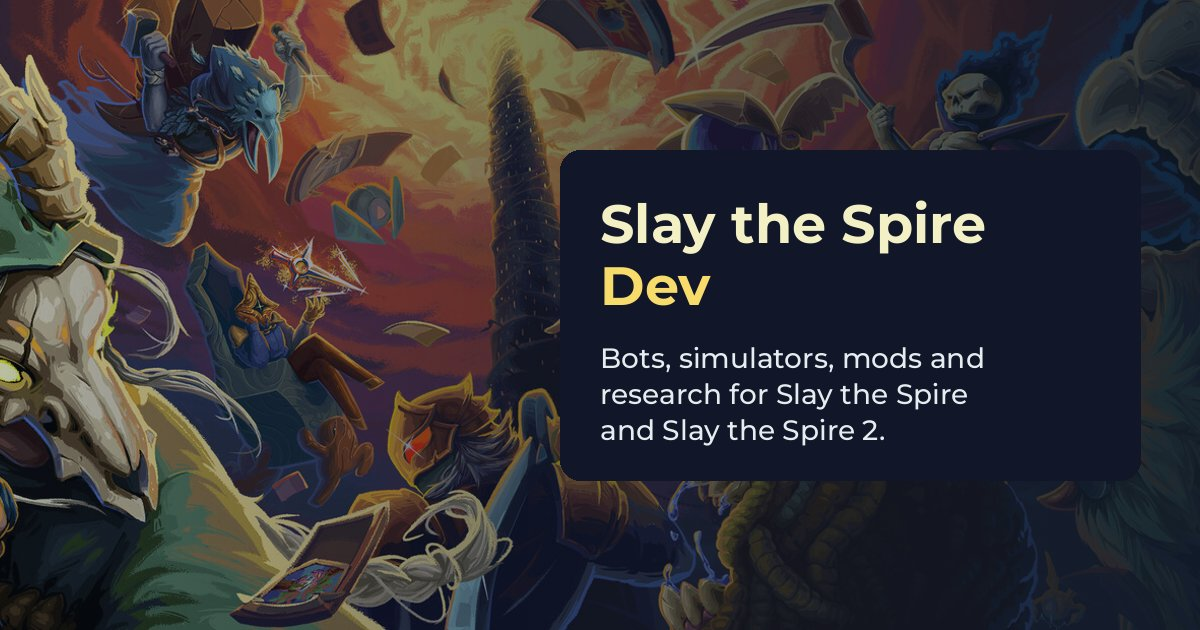
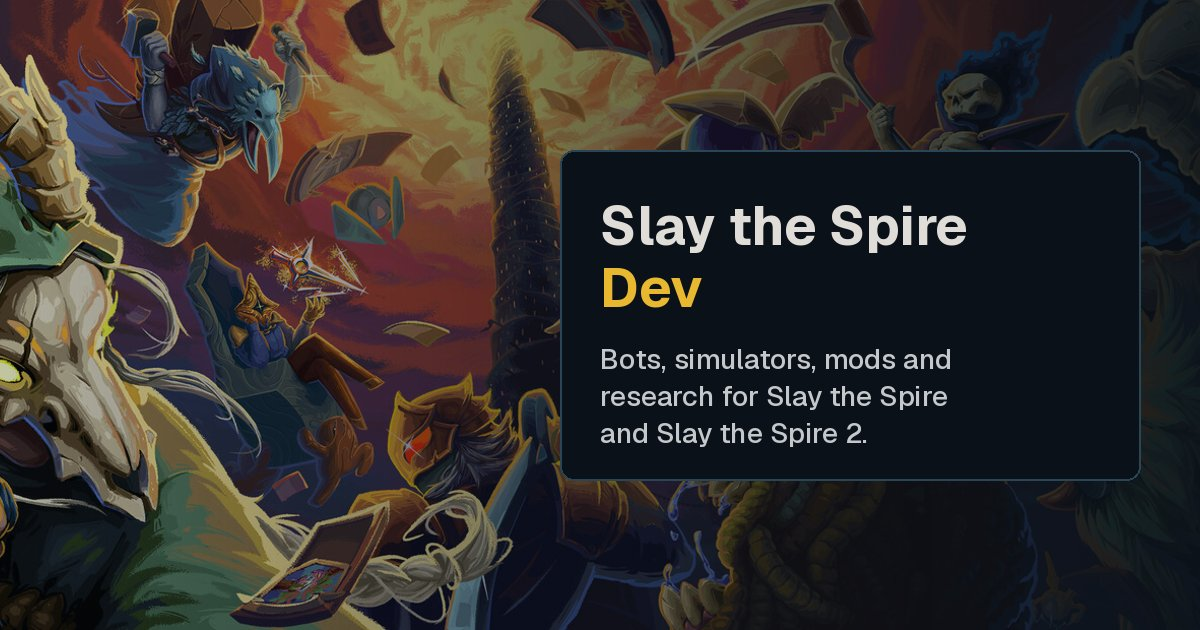
Switch to the Spire Codex dark theme (#7)
Codex palette and Geist font, flat bordered cards, left-aligned section
headings, no torn-paper edges. Color tokens renamed to describe their role.

diff --git a/src/styles/global.css b/src/styles/global.css
@@ -1,17 +1,20 @@
 :root {
-  --navy: #183749;
-  --navy-deep: #112836;
-  --navy-card: #1f4257;
-  --cream: #f2f0c4;
-  --cream-ink: #183749;
-  --slate: #6d95ac;
-  --mist: #8eadbe;
-  --gold: #f7db6b;
-  --sts1: #e8963f;
-  --sts2: #4fd8c4;
-  --white: #fff;
-  --radius: 10px;
-  --shadow: 0 10px 30px rgba(0, 0, 0, 0.35);
+  --bg: #0a1118;
+  --bg-raised: #0f1920;
+  --card: #132028;
+  --card-hover: #1a2b35;
+  --border: #1e3040;
+  --border-strong: #2a4555;
+  --text: #e0ddd8;
+  --text-strong: #f4f2ee;
+  --text-soft: #c4c8cb;
+  --muted: #8a9298;
+  --gold: #e8b830;
+  --gold-light: #fbd91e;
+  --sts1: #d53b27;
+  --sts2: #45cfd8;
+  --radius: 8px;
+  --shadow: none;
   --max: 1180px;
   color-scheme: dark;
 }
@@ -28,9 +31,9 @@ html {
 
 body {
   margin: 0;
-  background: var(--navy);
-  color: var(--white);
-  font-family: "Montserrat", system-ui, sans-serif;
+  background: var(--bg);
+  color: var(--text-strong);
+  font-family: "Geist", system-ui, sans-serif;
   font-weight: 500;
   line-height: 1.6;
   -webkit-font-smoothing: antialiased;
@@ -43,7 +46,7 @@ a {
 }
 
 a:hover {
-  color: var(--white);
+  color: var(--text-strong);
 }
 
 h1,
@@ -68,7 +71,7 @@ code {
 }
 
 pre {
-  background: var(--navy-deep);
+  background: var(--bg-raised);
   padding: 1rem;
   border-radius: var(--radius);
   overflow-x: auto;
@@ -89,23 +92,17 @@ pre code {
 }
 
 .section-title {
-  text-align: center;
-  font-size: clamp(1.8rem, 4vw, 2.75rem);
-  margin-bottom: 1.2em;
-}
-
-.section-title::before,
-.section-title::after {
-  content: " – ";
+  font-size: clamp(1.5rem, 3vw, 1.9rem);
+  margin-bottom: 1em;
 }
 
 .band {
-  background: var(--cream);
-  color: var(--cream-ink);
+  background: var(--bg-raised);
+  border-block: 1px solid var(--border);
 }
 
 .band a {
-  color: var(--navy);
+  color: var(--gold);
   font-weight: 700;
 }
 
@@ -120,29 +117,29 @@ pre code {
 
 .btn {
   display: inline-block;
-  background: var(--cream);
-  color: var(--navy);
-  font-weight: 700;
+  background: var(--gold);
+  color: var(--bg);
+  font-weight: 600;
   text-decoration: none;
   padding: 0.6em 1.4em;
   border-radius: 999px;
-  border: 2px solid var(--cream);
+  border: 2px solid var(--gold);
   transition: transform 0.15s, background 0.15s, color 0.15s;
 }
 
 .btn:hover {
   transform: translateY(-2px);
-  color: var(--navy);
+  color: var(--bg);
 }
 
 .btn.ghost {
   background: transparent;
-  color: var(--cream);
+  color: var(--gold);
 }
 
 .btn.ghost:hover {
-  background: var(--cream);
-  color: var(--navy);
+  background: var(--gold);
+  color: var(--bg);
 }
 
 .grid {
@@ -152,9 +149,9 @@ pre code {
 }
 
 .card {
-  background: var(--navy-deep);
+  background: var(--card);
+  border: 1px solid var(--border);
   border-radius: var(--radius);
-  box-shadow: var(--shadow);
   overflow: hidden;
   display: flex;
   flex-direction: column;
@@ -174,7 +171,7 @@ pre code {
 }
 
 .card h3 a {
-  color: var(--white);
+  color: var(--text-strong);
   text-decoration: none;
 }
 
@@ -183,7 +180,7 @@ pre code {
 }
 
 .meta {
-  color: var(--mist);
+  color: var(--muted);
   font-size: 0.85rem;
 }
 
@@ -201,13 +198,14 @@ pre code {
   letter-spacing: 0.02em;
   padding: 0.3em 0.8em;
   border-radius: 999px;
-  background: var(--slate);
-  color: var(--navy-deep);
+  background: var(--border-strong);
+  color: var(--bg-raised);
   white-space: nowrap;
 }
 
 .tag.sts1 {
   background: var(--sts1);
+  color: var(--text-strong);
 }
 
 .tag.sts2 {
@@ -216,8 +214,8 @@ pre code {
 
 .tag.quiet {
   background: transparent;
-  color: var(--mist);
-  box-shadow: inset 0 0 0 1px var(--slate);
+  color: var(--muted);
+  box-shadow: inset 0 0 0 1px var(--border-strong);
 }
 
 .prose {
@@ -244,7 +242,7 @@ pre code {
   margin: 1.5em 0;
   padding: 0.2em 1.2em;
   border-left: 4px solid var(--gold);
-  color: var(--cream);
+  color: var(--text);
   font-style: italic;
 }
 
@@ -258,7 +256,7 @@ pre code {
 .prose td {
   text-align: left;
   padding: 0.55em 0.7em;
-  border-bottom: 1px solid var(--navy-card);
+  border-bottom: 1px solid var(--card);
   vertical-align: top;
 }
 
@@ -275,7 +273,7 @@ pre code {
 }
 
 .page-head p {
-  color: var(--mist);
+  color: var(--muted);
   max-width: 720px;
   font-size: 1.1rem;
 }
